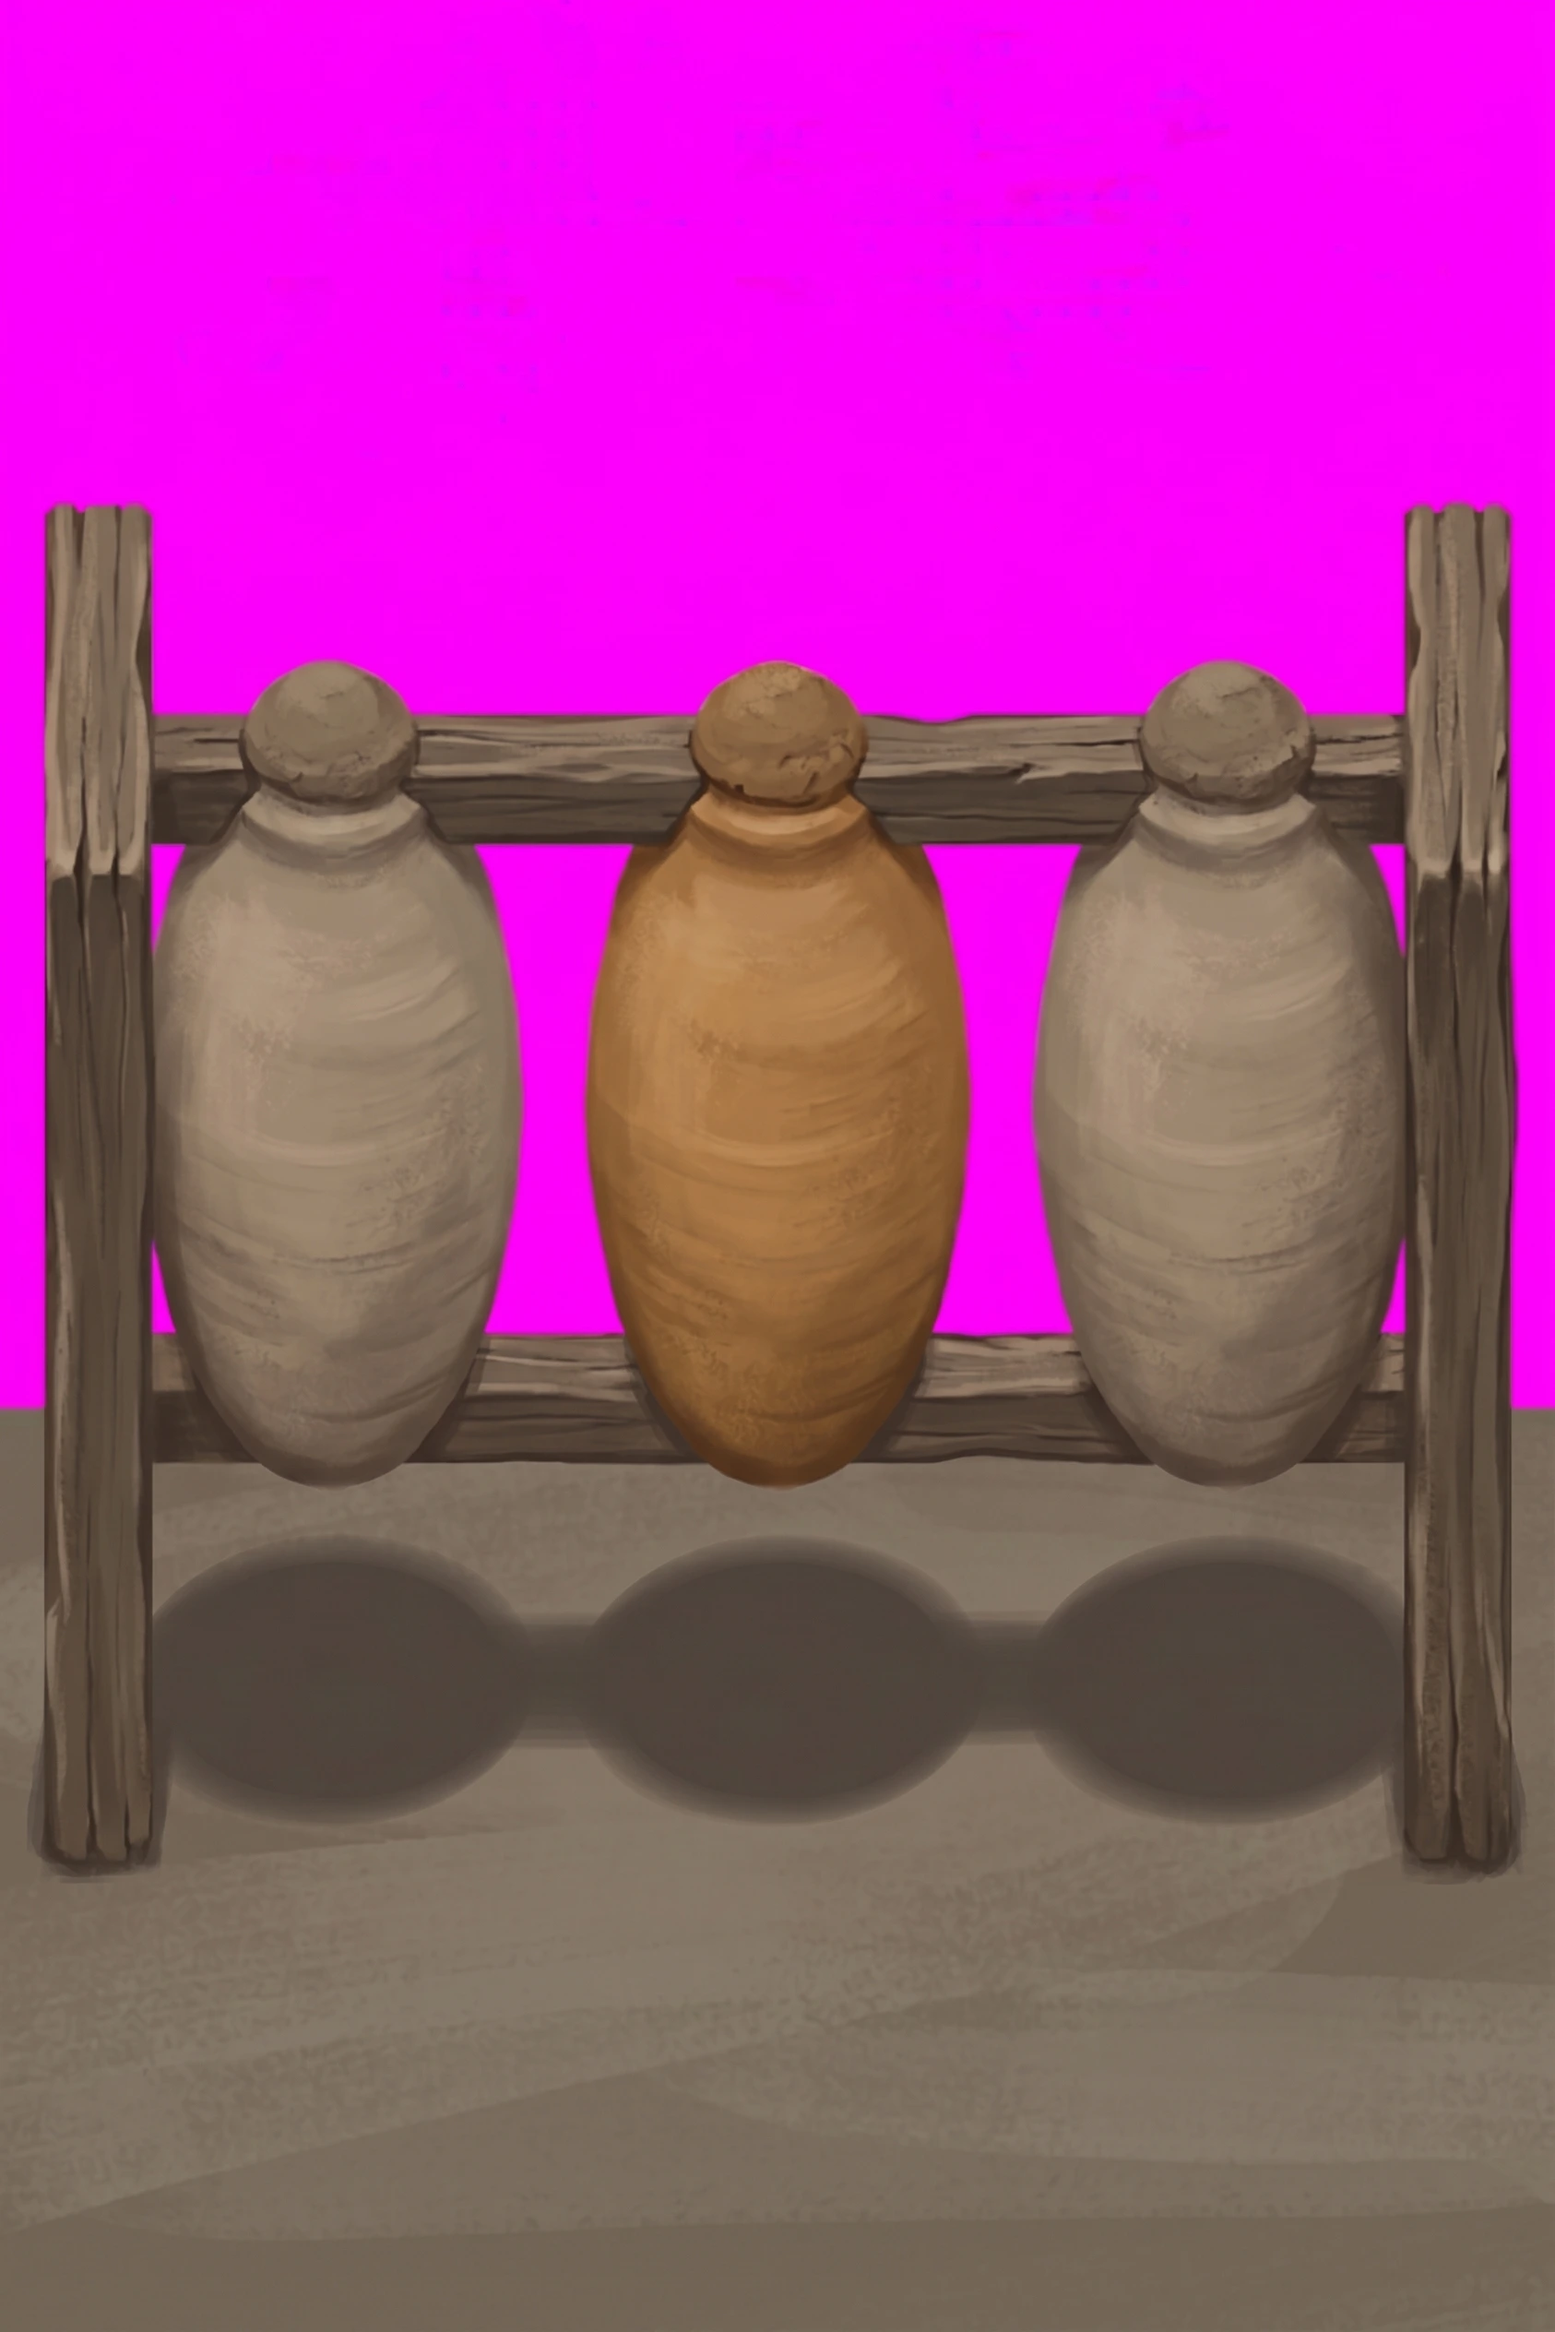
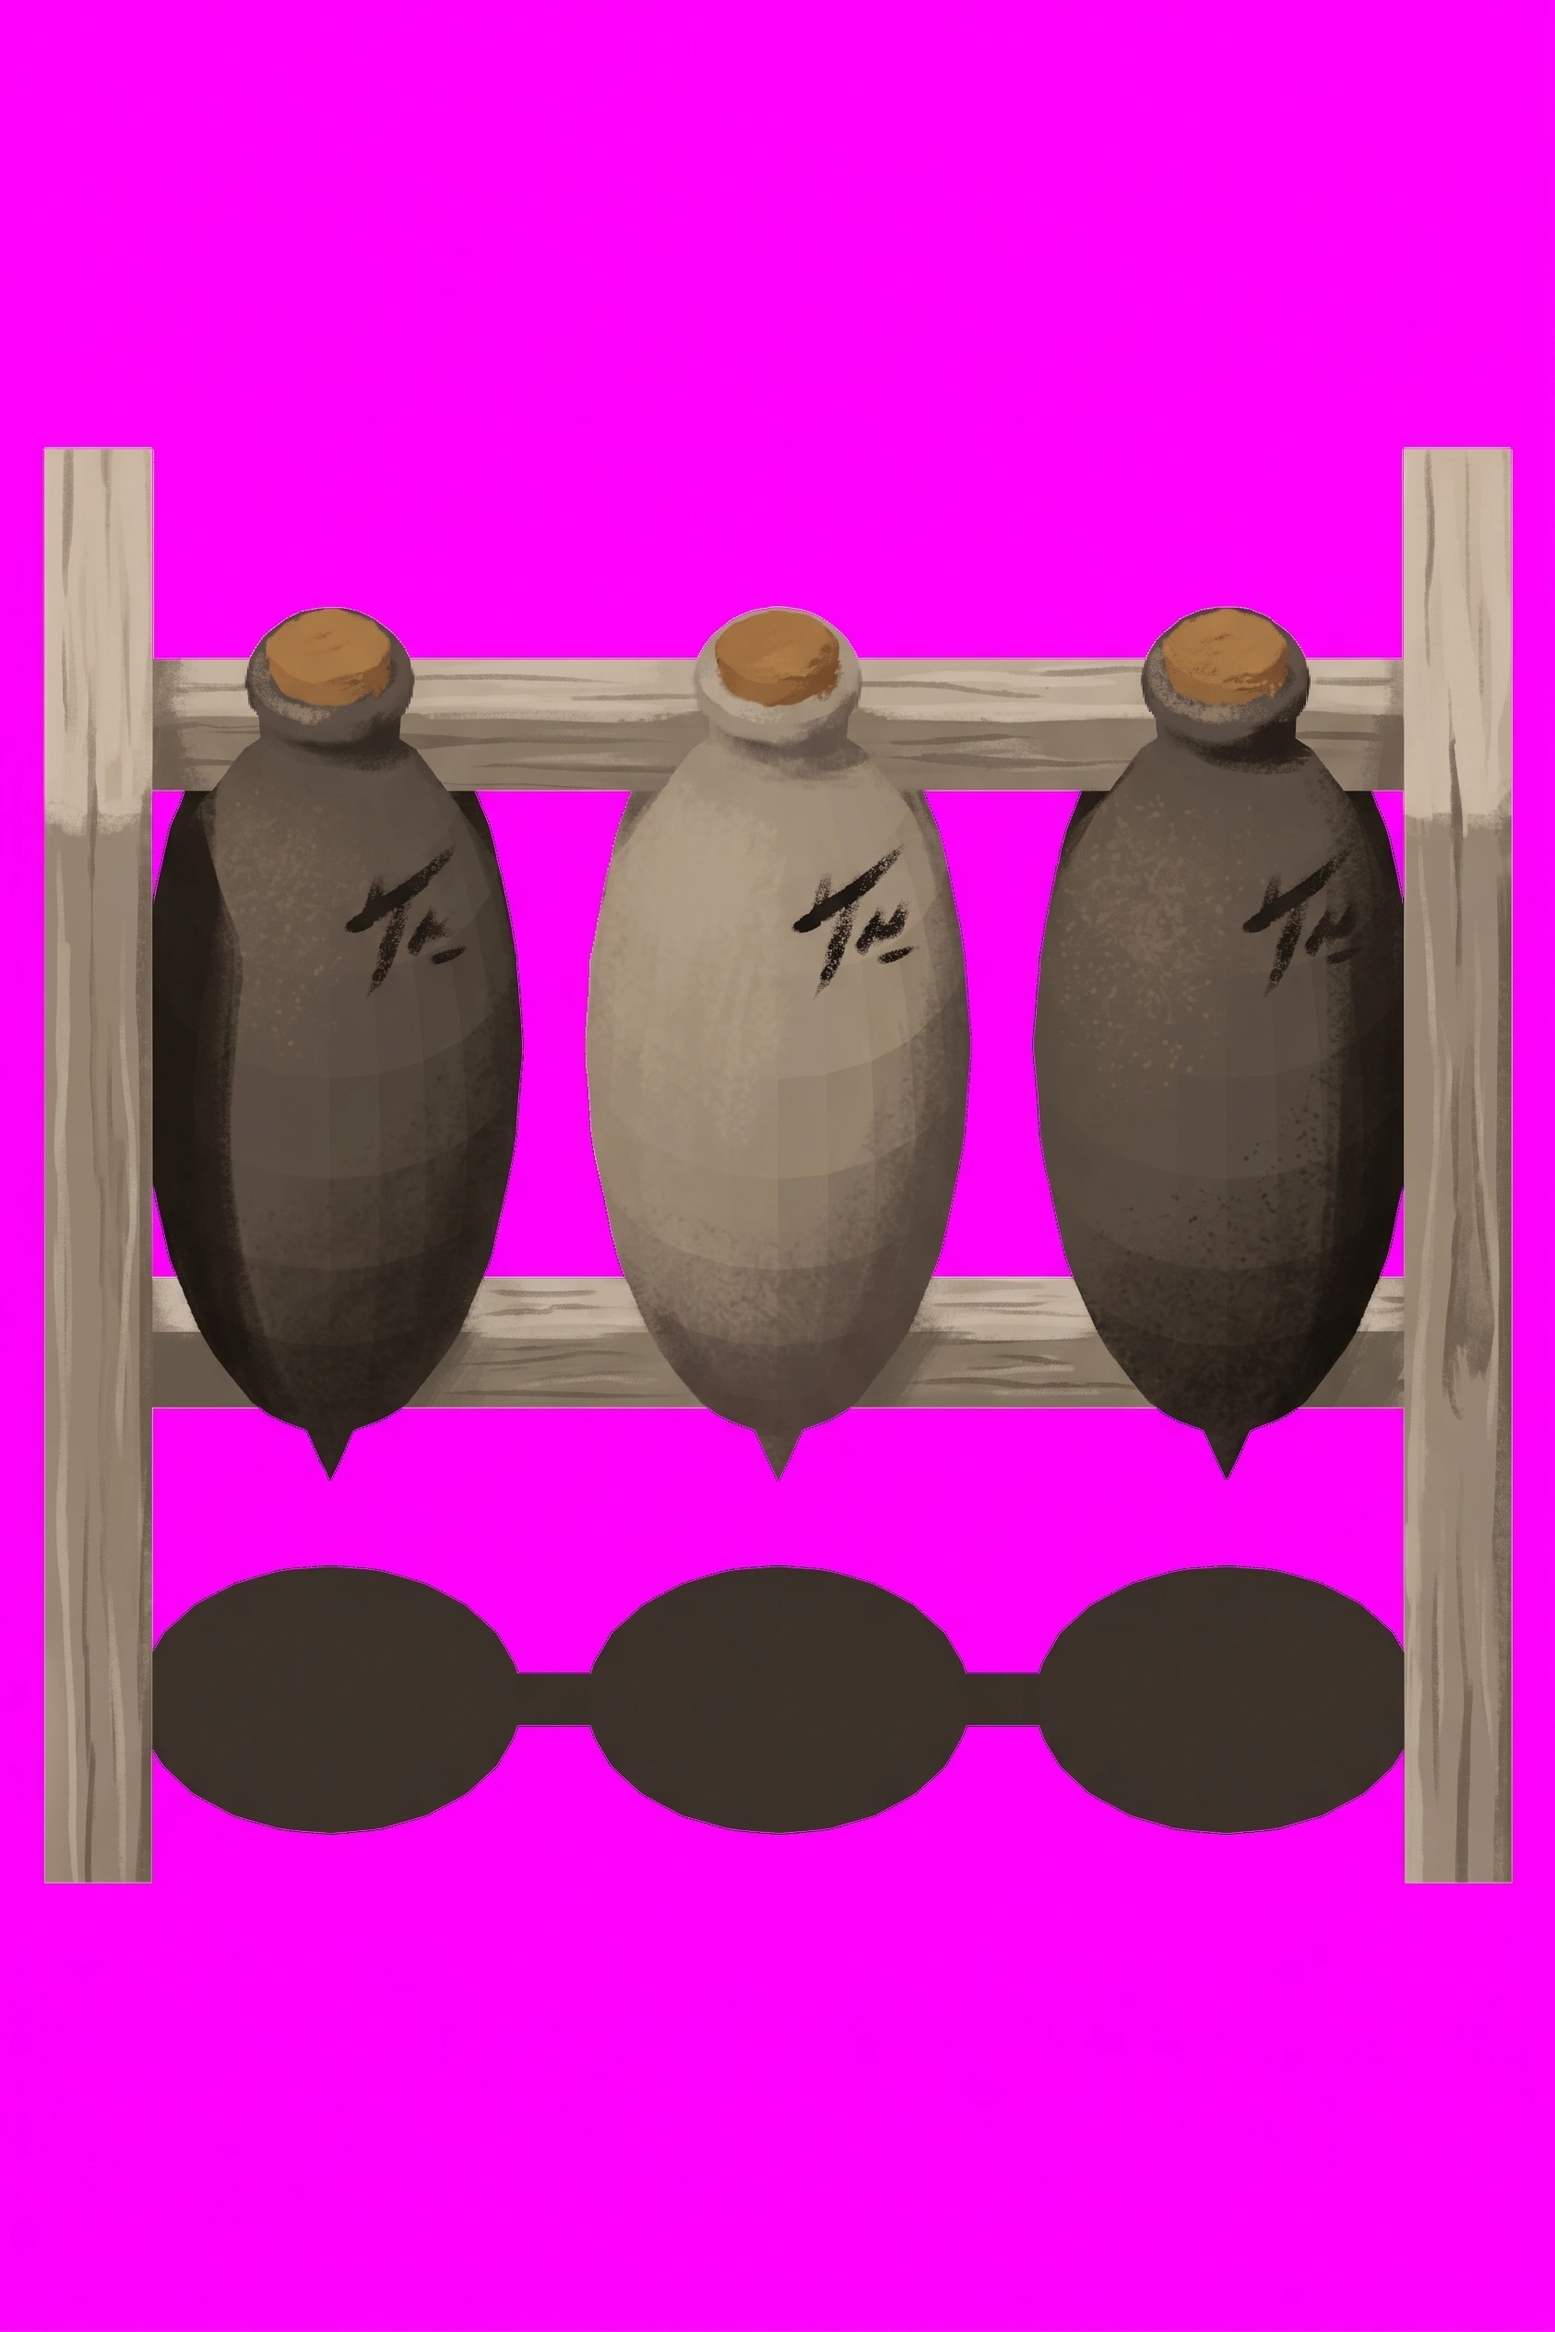
feat: the merchant's jars stand in a rack again
jarRack re-rolled over prim_jarrack, the second of the four prompted props to
join the pipeline. Its opaque painted shadow is gone and the translucent seat is
under it, so it shades the floor like everything else on a rebuild line.

--brightness=0.82 --saturation=1.7. That saturation is the highest here after
the brazier's 2.2, and for the same reason: a generator copying a render
desaturates toward grey, and split pale timber has little chroma to begin with,
so there is almost nothing to multiply. It returned at +7 warmth and lands at
+23, inside the hand-painted band of +22 to +25. The light end is what mattered
— untouched, the timber put 12% of the tile over the clamp.

The repaint moved the lower rail, drawing it across the jars' middles where the
model has it near the foot, so the mask kept rail-shaped holes the art does not
fill. That is the failure prop-pipeline warns about and it did not cost a roll:
composited on the floor those holes show paving between the jars, which is what
you see through a rack. Worth knowing that the failure is survivable when the
missing part is BEHIND something and the slot is see-through anyway.

Claude-Session: https://claude.ai/code/session_01TNgAGcPkVV74oznnqfXVVF

diff --git a/art/README.md b/art/README.md
@@ -39,14 +39,14 @@ see whether a change to `importTile.ts` moved a tile that is already approved.
 
 Only the props made through [the prop pipeline](../docs/instructions/prop-pipeline.md) have a rebuild
 line, because the pipeline records the flags as it goes. At the merchant that is `shelf`, `chestProp`,
-`brazier`, `lamp`, `pillar`, `mat`, `pit` and now `offeringTable`; at the nobleman all four props and all
+`brazier`, `lamp`, `pillar`, `mat`, `pit`, `offeringTable` and `jarRack`; at the nobleman all four props and all
 three wall items.
 
 **A prompted tile cannot simply be GIVEN a rebuild line, which is why `offeringTable` had to be re-rolled
 to get one.** Its shadow was painted into the art, so there is nothing to mask it against and nothing to
 seat under it, and the painted table was never drawn over a scaffold in the first place — the mask would
-have cut a shape the art does not fill. `jarRack`, `statue` and `basin` are in the same position: one roll
-each over their primitive, and they join the script. Until then they keep the opaque painted shadow, where
+have cut a shape the art does not fill. `statue` and `basin` are the last two in that position: one roll each over their
+primitive, and they join the script — though `statue` needs a scan and `basin` has no primitive yet. Until then they keep the opaque painted shadow, where
 everything on a rebuild line now shades the floor instead of replacing it.
 
 The four earlier merchant props were matched back to their downloads by fingerprint rather than by

diff --git a/CHANGELOG.md b/CHANGELOG.md
@@ -17,6 +17,8 @@ and this project adheres to [Semantic Versioning](https://semver.org/spec/v2.0.0
 - Fallen brick is two different things depending on where you meet it: a spill across a passage floor you
   walk over, and a knee-high heap in the corner of a chamber you walk around. Seventy-seven rooms that
   were furnished with one and drew nothing at all now draw the heap.
+- The merchant's jars stand in a rack of split timber, three mud-stoppered amphorae with a trader's mark
+  brushed on each shoulder, one of them fired paler than its neighbours.
 - The merchant's market table is his trade laid out: barley heaped loose on the boards and a two-pan
   balance standing beside it, its pans swinging on their cords.
 - What a prop stands in is a shadow rather than a hole: the floor's own paving, joints and grit show
